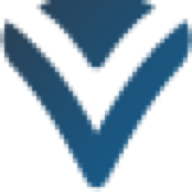
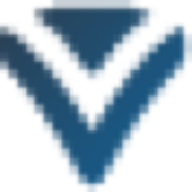
Update Preismodelle und diverse Verbesserungen
- Preise angepasst: Basic CHF 3'000, Pro CHF 5'000, Premium ab CHF 9'000
- Favicon-Updates, About-Sektion, QuoteBanner, Layout- und CSS-Anpassungen

Changed region(s): [[0.0, 0.0938, 1.0, 1.0], [0.1562, 0.0, 0.8125, 0.4375]]

diff --git a/components/QuoteBanner.tsx b/components/QuoteBanner.tsx
@@ -1,0 +1,101 @@
+"use client";
+
+import { useState, useEffect } from "react";
+
+const testimonials = [
+  {
+    quote:
+      "Das 1:1-Sparring auf GL-Ebene war diskret, professionell und sehr hilfreich. Ich konnte die Situation neu einordnen und zentrale Entscheidungen mit deutlich mehr Klarheit treffen.",
+    author: "Geschäftsführer, Schweizer Ingenieurunternehmen (China)",
+  },
+  {
+    quote:
+      "In einer anspruchsvollen Situation erhielt ich rasch eine klare Einordnung und ein strukturiertes Vorgehen. Diskret, kompetent und lösungsorientiert – so konnte ich eine faire und tragfähige Lösung erreichen.",
+    author: "Private Klientin, Zürich",
+  },
+  {
+    quote:
+      "Als CHRO war er ein sehr geschätztes Mitglied der Geschäftsleitung. Mit Fingerspitzengefühl, Empathie und klarem Urteilsvermögen hat er das Unternehmen spürbar vorangebracht. Die Kombination aus strategischem Denken und pragmatischer Umsetzung hat messbar zur Stabilität und zum Wachstum beigetragen.",
+    author: "CEO, internationales Schweizer KMU",
+  },
+  {
+    quote:
+      "In der Neuaufstellung unserer Organisation war seine Unterstützung ein echter Gewinn. Er hat Organisationsentwicklung sowie Rollen- und Strukturfragen mit uns geschärft, arbeitsrechtliche Themen sauber eingeordnet und die Umsetzung pragmatisch begleitet. Als diskreter Sparringspartner der Geschäftsleitung brachte er Klarheit in komplexe Situationen – und half, Entscheidungen konsequent und fair umzusetzen.",
+    author: "Geschäftsleitung und Aufsichtsrat",
+  },
+  {
+    quote:
+      "TaVyro brachte in kurzer Zeit Struktur in Führungs- und Rollenfragen und erhöhte die Entscheidungsqualität spürbar. Besonders wertvoll war die Kombination aus strategischem Blick (People & Organisation) und konsequenter Umsetzung – klar priorisiert, ohne Overhead, mit hoher Verlässlichkeit.",
+    author: "CEO, Schweizer IT-/Softwareunternehmen",
+  },
+];
+
+export default function QuoteBanner() {
+  const [currentIndex, setCurrentIndex] = useState(0);
+  const [isReducedMotion, setIsReducedMotion] = useState(false);
+
+  useEffect(() => {
+    // Check for prefers-reduced-motion
+    const mediaQuery = window.matchMedia("(prefers-reduced-motion: reduce)");
+    setIsReducedMotion(mediaQuery.matches);
+
+    const handleChange = (e: MediaQueryListEvent) => {
+      setIsReducedMotion(e.matches);
+    };
+
+    mediaQuery.addEventListener("change", handleChange);
+
+    // Auto-rotate only if motion is not reduced
+    if (!mediaQuery.matches) {
+      const interval = setInterval(() => {
+        setCurrentIndex((prev) => (prev + 1) % testimonials.length);
+      }, 10000);
+
+      return () => {
+        clearInterval(interval);
+        mediaQuery.removeEventListener("change", handleChange);
+      };
+    }
+
+    return () => {
+      mediaQuery.removeEventListener("change", handleChange);
+    };
+  }, []);
+
+  return (
+    <div
+      className="mx-auto max-w-2xl overflow-hidden"
+      aria-live="polite"
+      aria-atomic="true"
+    >
+      <div className="relative min-h-[240px] pb-6">
+        {testimonials.map((testimonial, index) => {
+          const isActive = index === currentIndex;
+          const offset = index - currentIndex;
+          
+          return (
+            <div
+              key={index}
+              className="absolute inset-0 flex flex-col transition-transform duration-500 ease-in-out pb-6"
+              style={{
+                transform: isReducedMotion
+                  ? "translateX(0)"
+                  : `translateX(${offset * 100}%)`,
+                opacity: isActive ? 1 : 0,
+                pointerEvents: isActive ? "auto" : "none",
+                transitionDuration: isReducedMotion ? "0ms" : "500ms",
+              }}
+            >
+              <blockquote className="flex flex-col flex-1 text-tavyro-text2 text-base md:text-lg leading-relaxed bg-transparent border-0 p-0 m-0 shadow-none rounded-none">
+                <p className="mb-4 italic flex-shrink-0 bg-transparent">&ldquo;{testimonial.quote}&rdquo;</p>
+                <footer className="text-sm md:text-base text-tavyro-text font-medium not-italic mt-auto pt-4 bg-transparent">
+                  {testimonial.author}
+                </footer>
+              </blockquote>
+            </div>
+          );
+        })}
+      </div>
+    </div>
+  );
+}

diff --git a/app/layout.tsx b/app/layout.tsx
@@ -9,54 +9,40 @@ export const viewport: Viewport = {
 };
 
 export const metadata: Metadata = {
-  metadataBase: new URL("https://www.tavyro.ch"),
-  title: "TaVyro – Fractional CHRO & People Advisory",
-  description: "Echte Entwicklung beginnt innen. TaVyro begleitet Geschäftsleitungen und Verwaltungsräte als Fractional CHRO / Strategic People Partner – unabhängig, umsetzungsnah und mit messbarer Wirkung.",
+  metadataBase: new URL("https://tavyro.ch"),
+  title: {
+    default: "TaVyro | HR Unterstützung Geschäftsleitung | Fractional CHRO Schweiz",
+    template: "%s | TaVyro",
+  },
+  description:
+    "HR Unterstützung für Geschäftsleitung und CEO: Fractional CHRO (CHROaaS), HR Beratung für KMU in der Schweiz, HR Strategie, HR Governance, Executive Sparring, HR Digitalisierung (HRIS/People Analytics).",
+  alternates: { canonical: "https://tavyro.ch" },
   openGraph: {
-    type: "website",
-    url: "https://www.tavyro.ch",
-    title: "TaVyro – Fractional CHRO & People Advisory",
-    description: "Boutique Advisory für CEOs, Geschäftsleitungen und Verwaltungsräte – unabhängig, umsetzungsnah und mit messbarer Wirkung.",
-    images: [
-      {
-        url: "/og.jpg",
-        width: 1200,
-        height: 630,
-        alt: "TaVyro – Fractional CHRO & People Advisory",
-        type: "image/jpeg",
-      },
-    ],
+    title: "TaVyro | Fractional CHRO Schweiz",
+    description:
+      "CHRO-as-a-Service für Schweizer KMU: HR Unterstützung Geschäftsleitung, Executive Sparring, HR Strategie & Umsetzung.",
+    url: "https://tavyro.ch",
     siteName: "TaVyro",
     locale: "de_CH",
+    type: "website",
+    images: [{ url: "/og.jpg", width: 1200, height: 630, alt: "TaVyro | Fractional CHRO Schweiz", type: "image/jpeg" }],
   },
   twitter: {
     card: "summary_large_image",
-    title: "TaVyro – Fractional CHRO & People Advisory",
-    description: "Boutique Advisory für CEOs, Geschäftsleitungen und Verwaltungsräte – unabhängig, umsetzungsnah und mit messbarer Wirkung.",
+    title: "TaVyro | Fractional CHRO Schweiz",
+    description:
+      "CHRO-as-a-Service für Schweizer KMU: HR Unterstützung Geschäftsleitung, Executive Sparring, HR Strategie & Umsetzung.",
     images: ["/og.jpg"],
   },
-  manifest: '/site.webmanifest',
+  manifest: "/site.webmanifest?v=20260201",
   icons: {
     icon: [
-      { url: '/favicon.ico', sizes: 'any' },
-      { url: '/favicon-16x16.png', type: 'image/png', sizes: '16x16' },
-      { url: '/favicon-32x32.png', type: 'image/png', sizes: '32x32' },
-      { url: '/icon.svg', type: 'image/svg+xml' },
+      { url: "/favicon.ico?v=20260201", sizes: "any" },
+      { url: "/favicon-16x16.png?v=20260201", type: "image/png", sizes: "16x16" },
+      { url: "/favicon-32x32.png?v=20260201", type: "image/png", sizes: "32x32" },
     ],
-    apple: [
-      { url: '/apple-touch-icon.png', sizes: '180x180', type: 'image/png' },
-    ],
-    other: [
-      {
-        rel: 'mask-icon',
-        url: '/icon.svg',
-        color: '#265464',
-      },
-      {
-        rel: 'manifest',
-        url: '/site.webmanifest',
-      },
-    ],
+    apple: [{ url: "/apple-touch-icon.png?v=20260201", sizes: "180x180", type: "image/png" }],
+    other: [{ rel: "manifest", url: "/site.webmanifest?v=20260201" }],
   },
 };
 

diff --git a/components/About.tsx b/components/About.tsx
@@ -1,3 +1,5 @@
+import QuoteBanner from "@/components/QuoteBanner";
+
 export default function About() {
   const qualifications = [
     "Arbeits- und Organisationspsychologie (lic. phil./MSc)",
@@ -24,29 +26,18 @@ export default function About() {
               </p>
             </div>
 
-            <div className="p-6 md:p-8 bg-tavyro-surface rounded-lg border border-tavyro-border">
-              <h3 className="text-lg md:text-xl font-semibold text-tavyro-text mb-4">
+            <div className="bg-tavyro-surface rounded-lg border border-tavyro-border overflow-hidden">
+              <h3 className="text-lg md:text-xl font-semibold text-white bg-tavyro-brand-500 px-6 py-3">
                 Ausbildungen & Qualifikationen
               </h3>
-              <ul className="space-y-3">
+              <ul className="space-y-3 list-disc list-inside text-tavyro-text2 p-6">
                 {qualifications.map((qual, index) => (
-                  <li key={index} className="flex items-start text-tavyro-text2">
-                    <svg
-                      className="w-5 h-5 text-tavyro-brand-500 mr-3 mt-0.5 flex-shrink-0"
-                      fill="none"
-                      strokeLinecap="round"
-                      strokeLinejoin="round"
-                      strokeWidth="2"
-                      viewBox="0 0 24 24"
-                      stroke="currentColor"
-                    >
-                      <path d="M5 13l4 4L19 7" />
-                    </svg>
-                    <span>{qual}</span>
-                  </li>
+                  <li key={index}>{qual}</li>
                 ))}
               </ul>
             </div>
+
+            <QuoteBanner />
           </div>
         </div>
       </div>

diff --git a/app/page.tsx b/app/page.tsx
@@ -8,9 +8,42 @@ import About from "@/components/About";
 import Contact from "@/components/Contact";
 import Footer from "@/components/Footer";
 
+const jsonLd = {
+  "@context": "https://schema.org",
+  "@type": "ProfessionalService",
+  name: "TaVyro",
+  url: "https://tavyro.ch",
+  areaServed: "CH",
+  description:
+    "HR Unterstützung für Geschäftsleitung und CEO in Schweizer KMU: Fractional CHRO (CHROaaS), HR Strategie, HR Governance, Executive Sparring, HR Digitalisierung (HRIS/People Analytics).",
+  serviceType: [
+    "CHRO-as-a-Service",
+    "Fractional CHRO",
+    "HR Governance",
+    "Executive Coaching",
+    "HR Transformation",
+  ],
+  hasOfferCatalog: {
+    "@type": "OfferCatalog",
+    name: "Services",
+    itemListElement: [
+      { "@type": "Offer", itemOffered: { "@type": "Service", name: "HR Unterstützung Geschäftsleitung" } },
+      { "@type": "Offer", itemOffered: { "@type": "Service", name: "HR Beratung KMU Schweiz" } },
+      { "@type": "Offer", itemOffered: { "@type": "Service", name: "HR Sparring CEO" } },
+      { "@type": "Offer", itemOffered: { "@type": "Service", name: "HR Strategie KMU" } },
+      { "@type": "Offer", itemOffered: { "@type": "Service", name: "HR Interim Lösung (Fractional CHRO)" } },
+      { "@type": "Offer", itemOffered: { "@type": "Service", name: "HR Digitalisierung Beratung (HRIS/People Analytics)" } },
+    ],
+  },
+};
+
 export default function Home() {
   return (
     <main className="min-h-screen">
+      <script
+        type="application/ld+json"
+        dangerouslySetInnerHTML={{ __html: JSON.stringify(jsonLd) }}
+      />
       <Navigation />
       <Hero />
       <Impact />

diff --git a/components/Pricing.tsx b/components/Pricing.tsx
@@ -2,7 +2,7 @@ export default function Pricing() {
   const pricingPlans = [
     {
       name: "TaVyro Basic",
-      price: "CHF 2'000",
+      price: "CHF 3'000",
       period: "/ Monat",
       features: [
         "GL-Sparring",
@@ -13,7 +13,7 @@ export default function Pricing() {
     },
     {
       name: "TaVyro Pro",
-      price: "CHF 4'000",
+      price: "CHF 5'000",
       period: "/ Monat",
       features: [
         "GL-Sparring 1:1 + Teilnahme an ausgewählten GL-Sitzungen",
@@ -24,7 +24,7 @@ export default function Pricing() {
     },
     {
       name: "TaVyro Premium",
-      price: "ab CHF 7'000",
+      price: "ab CHF 9'000",
       period: "/ Monat",
       features: [
         "Nahezu CHRO-Ersatz (fair-use, bis 4 Tage/Monat)",

diff --git a/app/globals.css b/app/globals.css
@@ -51,6 +51,10 @@
   h1, h2, h3, h4, h5, h6 {
     @apply font-semibold;
   }
+
+  blockquote {
+    @apply bg-transparent border-0 p-0 m-0 shadow-none;
+  }
 }
 
 @layer components {
